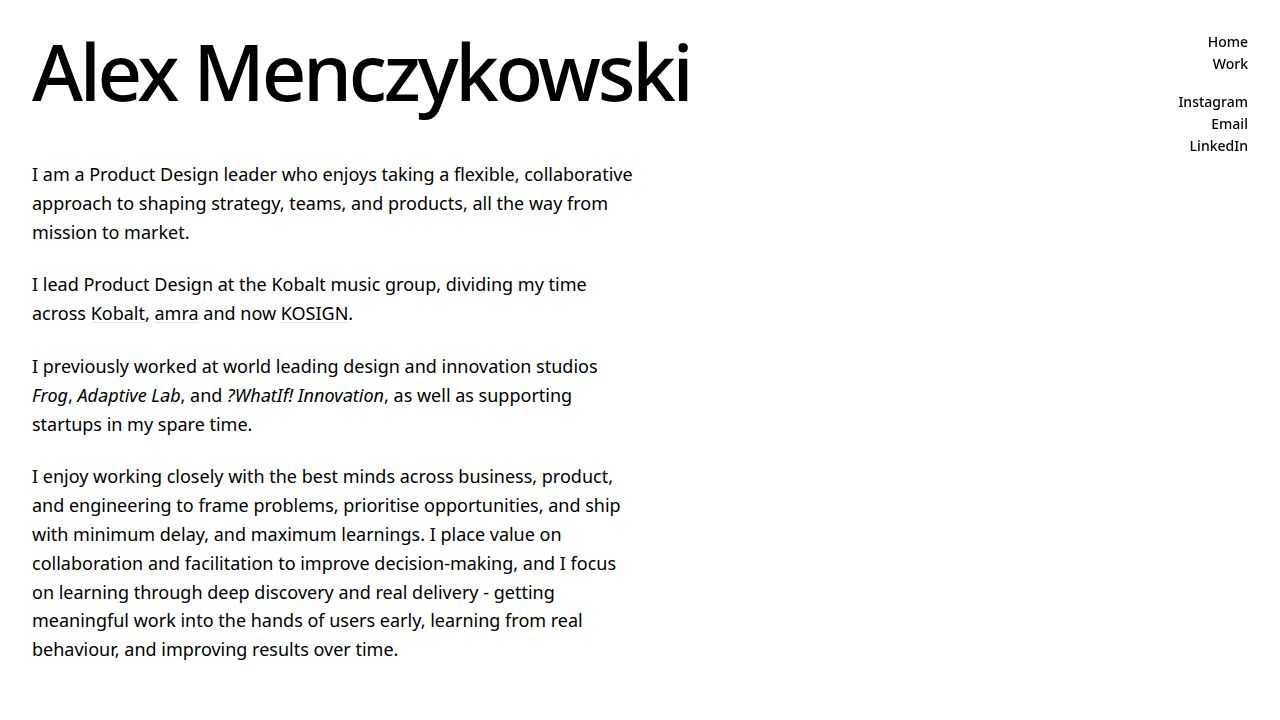
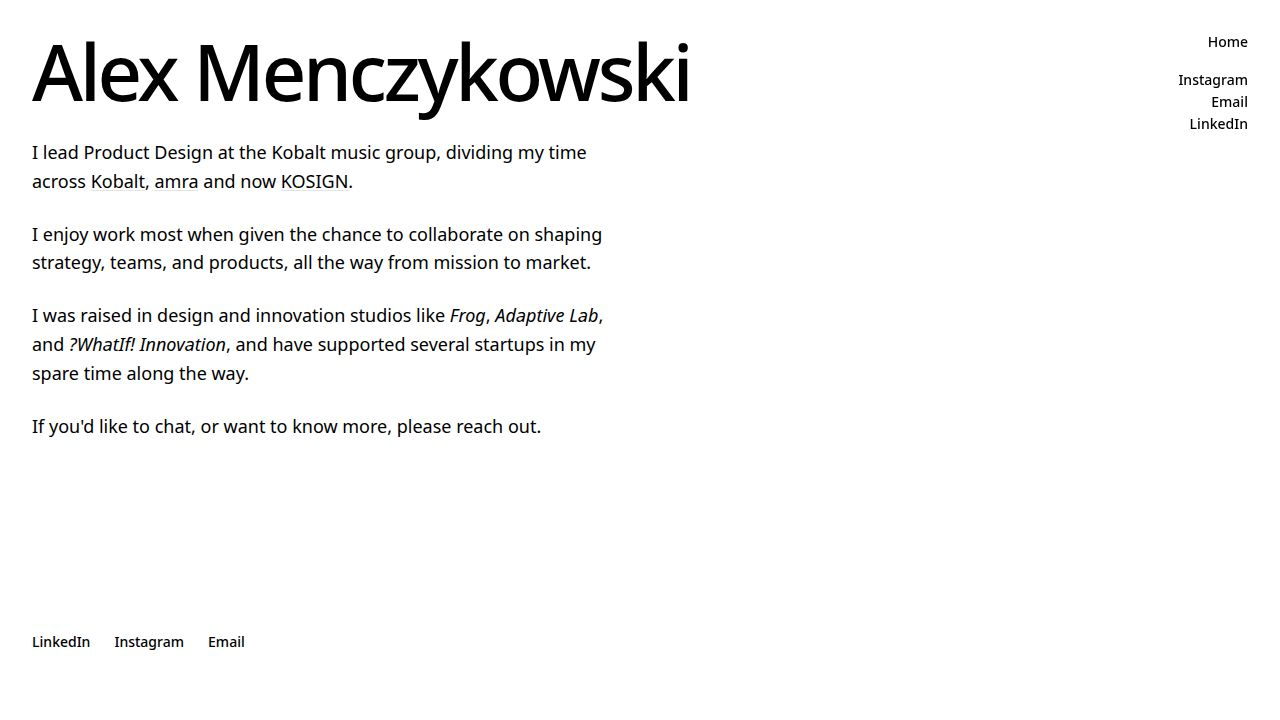
Update homepage content and restrict site navigation
Removes the "Work" link from navigation and updates homepage copy with new professional summary and studio links.

Replit-Commit-Author: Agent
Replit-Commit-Session-Id: ce9cedc7-5120-48ae-9af4-1a7c6595939e
Replit-Commit-Checkpoint-Type: full_checkpoint
Replit-Commit-Event-Id: d35afce6-2498-416f-997b-a8ba45da1de5
Replit-Commit-Screenshot-Url: https://storage.googleapis.com/screenshot-production-us-central1/4d3f69b8-740a-4d87-9856-025b51f3df6c/ce9cedc7-5120-48ae-9af4-1a7c6595939e/doid64E
Replit-Helium-Checkpoint-Created: true

Changed region(s): [[0.0312, 0.1833, 0.5, 0.6111], [0.0312, 0.6417, 0.5, 0.9167], [0.9062, 0.0611, 0.9688, 0.2139]]

diff --git a/client/src/pages/Home.tsx b/client/src/pages/Home.tsx
@@ -12,10 +12,7 @@ export default function Home() {
             I enjoy work most when given the chance to collaborate on shaping strategy, teams, and products, all the way from mission to market.
           </p>
           <p>
-            I was raised in design and innovation studios such as <a href="https://www.frog.co/" target="_blank" rel="noopener noreferrer" className="italic hover:text-muted-foreground transition-colors">Frog</a>, <a href="https://x.com/adaptivelab?lang=en" target="_blank" rel="noopener noreferrer" className="italic hover:text-muted-foreground transition-colors">Adaptive Lab</a>, and <a href="https://whatifinnovation.com/" target="_blank" rel="noopener noreferrer" className="italic hover:text-muted-foreground transition-colors">?WhatIf! Innovation</a>, and have supported several startups in my spare time along the way.
-          </p>
-          <p>
-            I do my best work when operating closely alongside the most ambitious minds across business, product, and engineering to improve decision-making. I focus on learning through deep discovery and real delivery - getting meaningful work into the hands of users early, learning from real behaviour, and improving results over time.
+            I was raised in design and innovation studios like <a href="https://www.frog.co/" target="_blank" rel="noopener noreferrer" className="italic hover:text-muted-foreground transition-colors">Frog</a>, <a href="https://x.com/adaptivelab?lang=en" target="_blank" rel="noopener noreferrer" className="italic hover:text-muted-foreground transition-colors">Adaptive Lab</a>, and <a href="https://whatifinnovation.com/" target="_blank" rel="noopener noreferrer" className="italic hover:text-muted-foreground transition-colors">?WhatIf! Innovation</a>, and have supported several startups in my spare time along the way.
           </p>
           <p>
             If you'd like to chat, or want to know more, please reach out.

diff --git a/client/src/components/Layout.tsx b/client/src/components/Layout.tsx
@@ -75,11 +75,6 @@ export default function Layout({ children }: { children: React.ReactNode }) {
               Home
             </a>
           </Link>
-          <Link href="/work">
-            <a className={`transition-colors hover:underline ${location.startsWith('/work') ? 'text-foreground' : 'text-muted-foreground'}`}>
-              Work
-            </a>
-          </Link>
           <a href="https://instagram.com/alex.mench/" target="_blank" rel="noopener noreferrer" className="text-muted-foreground hover:underline">Instagram</a>
           <a href="mailto:alexmenczykowski@gmail.com" className="text-muted-foreground hover:underline">Email</a>
           <a href="https://www.linkedin.com/in/alexmenczykowski/" target="_blank" rel="noopener noreferrer" className="text-muted-foreground hover:underline">LinkedIn</a>
@@ -113,11 +108,6 @@ export default function Layout({ children }: { children: React.ReactNode }) {
            <Link href="/">
             <a className={`transition-colors hover:underline ${location === '/' ? 'text-foreground' : 'text-muted-foreground'}`}>
               Home
-            </a>
-          </Link>
-          <Link href="/work">
-            <a className={`transition-colors hover:underline ${location.startsWith('/work') ? 'text-foreground' : 'text-muted-foreground'}`}>
-              Work
             </a>
           </Link>
           <div className="mt-4 flex flex-col gap-0.5 items-end">
